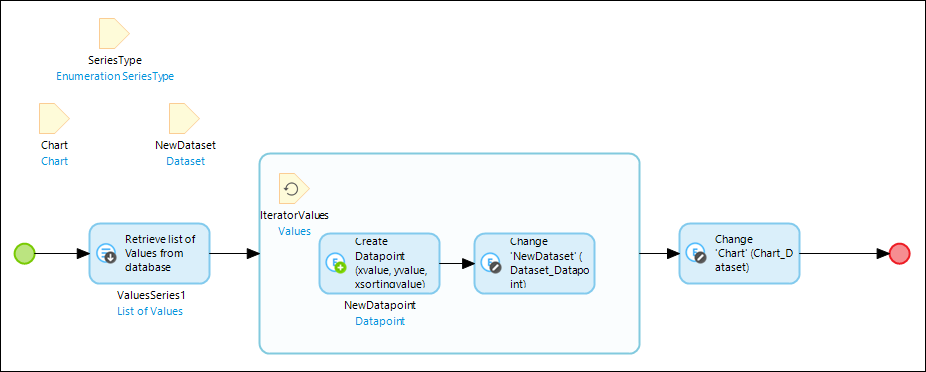
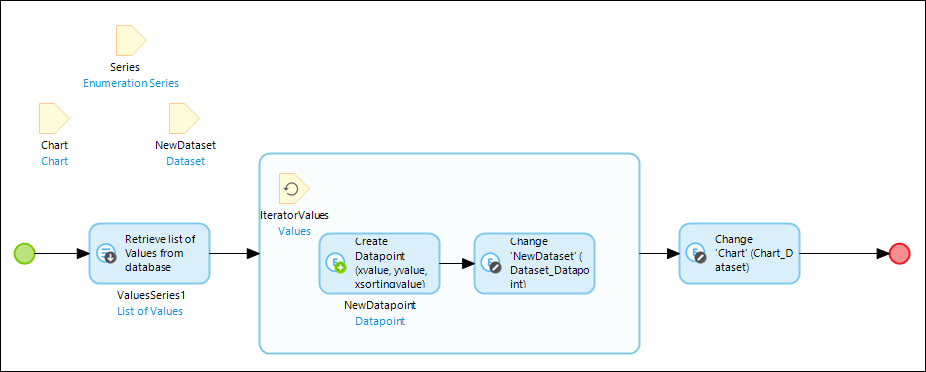
Update via feedback item 411687

Changed region(s): [[0.0605, 0.0296, 0.2117, 0.2366]]

diff --git a/content/howto7/extensibility/visualize-data-using-the-chartsjs-module.md b/content/howto7/extensibility/visualize-data-using-the-chartsjs-module.md
@@ -59,7 +59,7 @@ To see a working domain model already configured in an application, you can go t
     ![](attachments/19202962/19398994.png)
     
 4.  For the Series attribute, create a new enumeration named **Series** that contains the values **Series 1** and **Series 2**.
-5.  Create a non-persistant **ChartWrapper** entity with no attributes:
+5.  Create a non-persistable **ChartWrapper** entity with no attributes:
 
     ![](attachments/19202962/19398997.png)
 
@@ -81,7 +81,7 @@ To make this sample project actually generate charts, the first thing to do is c
 
     ![](attachments/19202962/19398998.png)
 
-4. Right-click the data view and select **Got to microflow**.
+4. Right-click the data view and select **Go to microflow**.
 5. In the **NewChartWrapper** microflow, create a new ChartWrapper object and set that object as the return.
 
     ![](attachments/19202962/19398999.png)
@@ -122,23 +122,19 @@ Now that we have added our widget to the page, we need to feed it some data.  To
 
     ![](attachments/19202962/19399005.png)
 
-2. In this new microflow, create a new **DataSet** object.
-
+2. In this new microflow, create a new **Dataset** object.
 3.  Populate values for **Label** and **Color**:
 
     ![](attachments/19202962/19399006.png)
     
 4. Create a new microflow in your module called **SUB_CreateSeries**.  This will be used as a sub-microflow to retrieve all the data associated with our new dataset.
-
-5. Create input parameters for **SeriesType**, **Chart**, and **Dataset**.
-
+5. Create input parameters for **Series**, **Chart**, and **Dataset**.
 6. Add a loop.
-
 7.  We iterate through that list and create a **NewDatapoint**, setting X, Y, and X sorting using the corresponding attributes for our **Value** entity:
 
     ![](attachments/19202962/19399009.png)
     
-8.  Retrieve the dataPoints:
+8.  Retrieve the **Datapoints**:
 
     ![](attachments/19202962/19399008.png)
     
